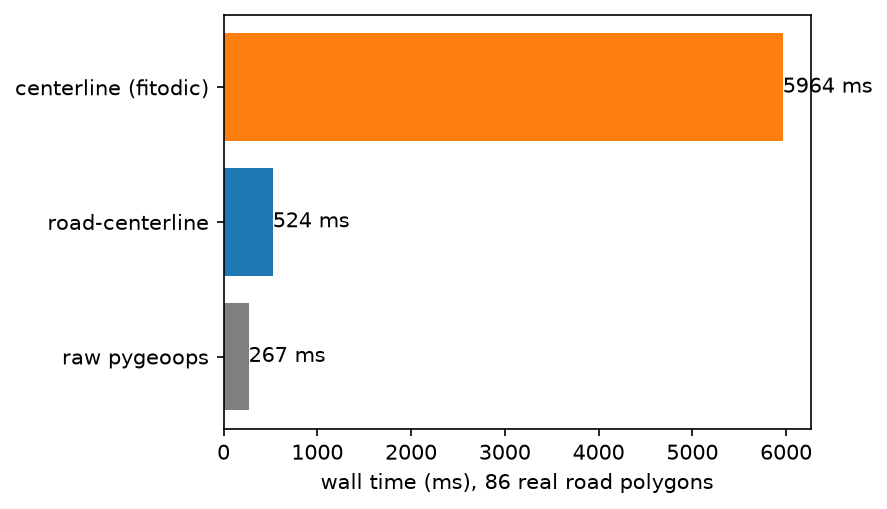
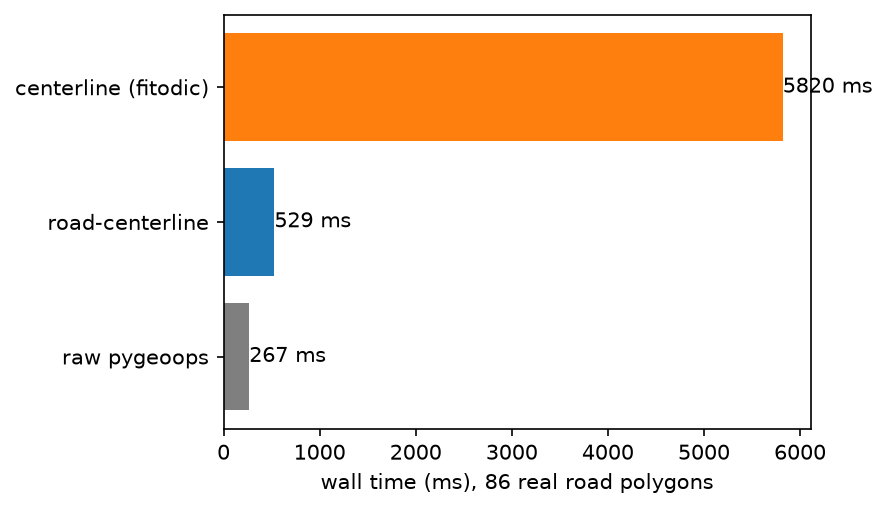
Zoom the satellite figure in tighter and switch to a high-contrast overlay color
Yellow blended into both the sandy/tan construction patches and actual
yellow lane-marking paint in the imagery. Switched to a bright magenta
(#ff2079) that doesn't occur naturally in satellite imagery, and cropped to
just the roundabout/loop-ramp core (tile zoom 18->19) so individual ramps
and lane markings are legible instead of the wider interchange plus its
approach roads.

diff --git a/benchmarks/generate_figures.py b/benchmarks/generate_figures.py
@@ -147,11 +147,14 @@ def _crop_bbox() -> tuple:
 # A full stack interchange (loop ramps, roundabout, motorway) near Utrecht —
 # found by rendering the whole fixture and looking for the densest tangle,
 # not cherry-picked from outside the dataset already used everywhere else.
-# Tight crop on the interchange's central roundabout/loop-ramp cluster
-# (the visually densest part) rather than the full interchange including
-# its approach roads, so the loops are actually legible at doc width.
-INTERCHANGE_BBOX_WGS84 = (5.0635, 52.061, 5.0785, 52.0715)
-INTERCHANGE_ZOOM = 18
+# Tight crop on just the roundabout/loop-ramp core (not the full interchange
+# plus approach roads) so individual ramps and lane markings stay legible.
+INTERCHANGE_BBOX_WGS84 = (5.0675, 52.0625, 5.0775, 52.0705)
+INTERCHANGE_ZOOM = 19
+# Bright magenta: satellite imagery is all greens/tans/grays, so this is the
+# one color guaranteed not to blend into fields, dirt, pavement, or (unlike
+# yellow) actual yellow lane-marking paint.
+OVERLAY_COLOR = "#ff2079"
 
 
 def figure_real_interchange_satellite(gdf: gpd.GeoDataFrame) -> None:
@@ -165,14 +168,19 @@ def figure_real_interchange_satellite(gdf: gpd.GeoDataFrame) -> None:
     gdf_clip = gdf.clip(INTERCHANGE_BBOX_WGS84).to_crs(3857)
     centerlines_clip = centerlines.clip(INTERCHANGE_BBOX_WGS84).to_crs(3857)
 
-    fig, axes = plt.subplots(1, 2, figsize=(7, 3.8))
+    fig, axes = plt.subplots(1, 2, figsize=(8, 4.3))
 
     gdf_clip.plot(
-        ax=axes[0], facecolor="#ffdd00", edgecolor="#ffdd00", alpha=0.55, linewidth=0.6, zorder=2
+        ax=axes[0],
+        facecolor=OVERLAY_COLOR,
+        edgecolor=OVERLAY_COLOR,
+        alpha=0.55,
+        linewidth=0.6,
+        zorder=2,
     )
     axes[0].set_title("Input: road-surface polygons (OSM)", fontsize=9)
 
-    centerlines_clip.plot(ax=axes[1], color="#ffdd00", linewidth=1.8, zorder=2)
+    centerlines_clip.plot(ax=axes[1], color=OVERLAY_COLOR, linewidth=2.2, zorder=2)
     axes[1].set_title("compute_centerlines()", fontsize=9)
 
     for ax in axes:
